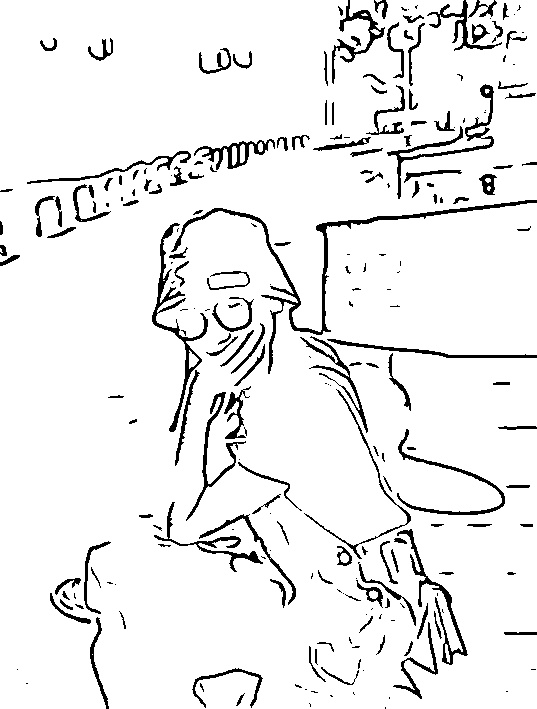
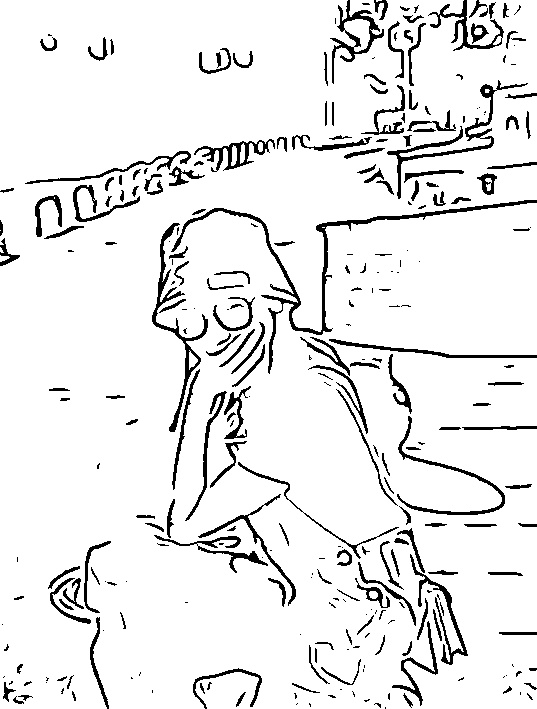
perfect

diff --git a/fdog.py b/fdog.py
@@ -339,7 +339,7 @@ def run(img, sobel_size=3, etf_iter=2, etf_size=9,
         edge = detect_edge(img, flow, sigma_m=sigma_m,
             sigma_c=sigma_c, rho=rho, thresh=thresh, tau=tau)
         img[edge == 0] = 0
-        img = cv.GaussianBlur(img, ksize=(3, 3), sigmaX=0)
+        img = cv.GaussianBlur(img, ksize=(3, 3), sigmaX=0, sigmaY=0)
         end = time.perf_counter()
         print(f"applying fdog, iteration {i + 1}, "
                 f"time cost = {end - start:<6f}s")
@@ -385,12 +385,12 @@ if __name__ == "__main__":
         edge = run(
             img=img,
             sobel_size=5,
-            etf_iter=2,
+            etf_iter=4,
             etf_size=7,
             fdog_iter=2,
             sigma_m=3.0,
             sigma_c=1.0,
-            rho=0.99,
+            rho=0.997,
             tau=0.907
         )
         print("{}-{}".format('- ' * 10, ' -' * 9))
